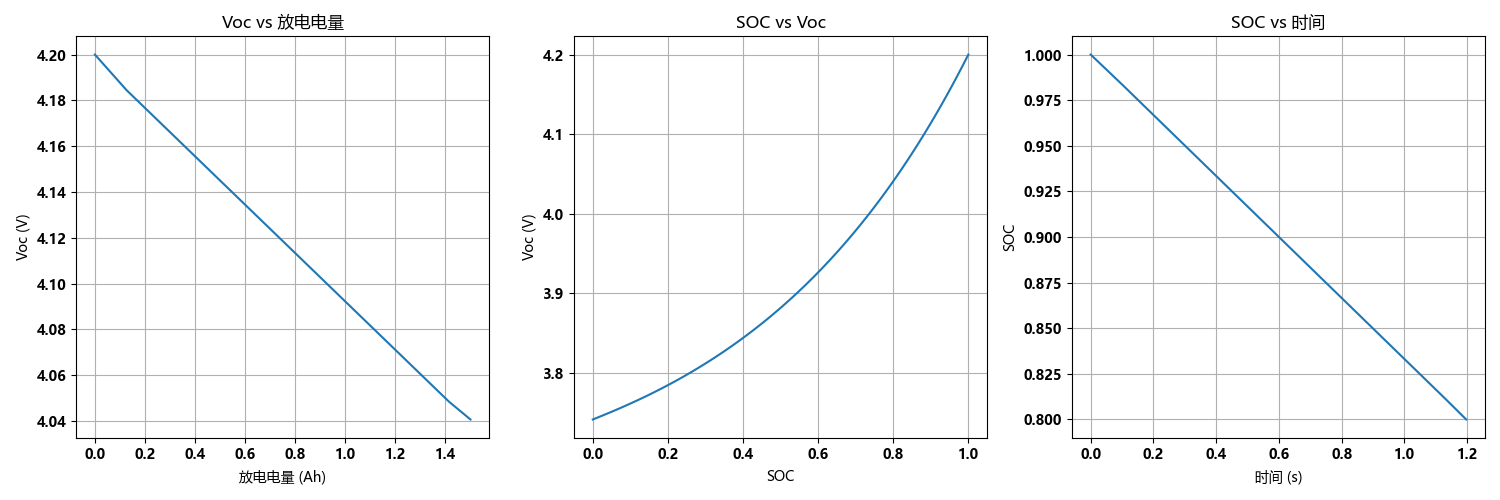
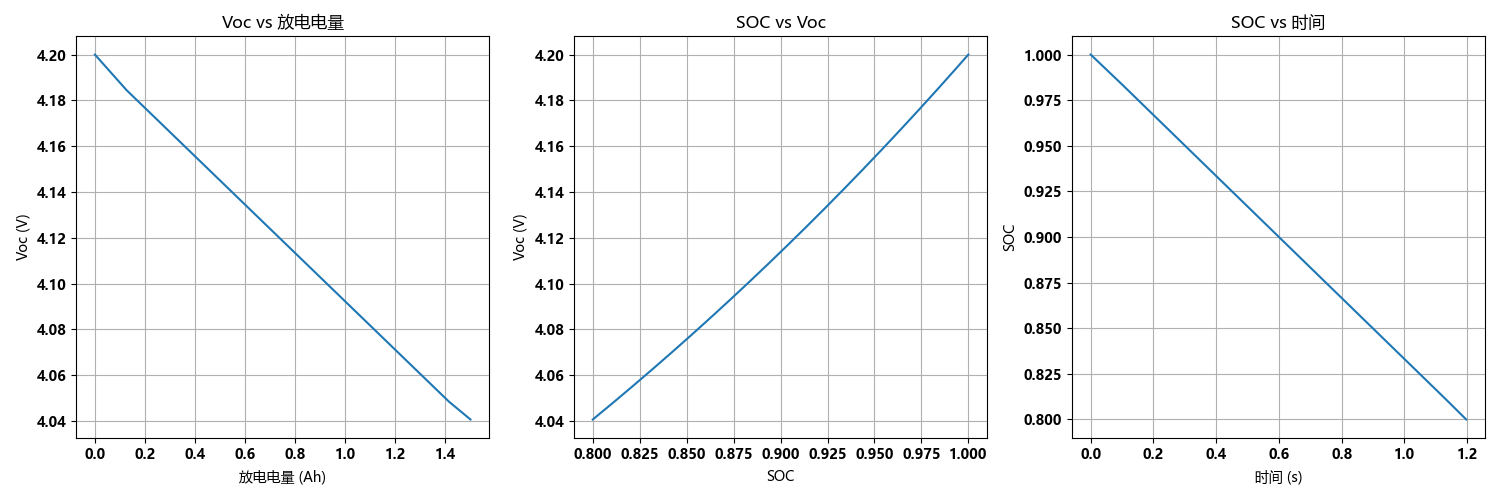
不平滑插值

diff --git a/code_cos.py b/code_cos.py
@@ -1,22 +1,33 @@
 import numpy as np
 from scipy.integrate import solve_ivp
+from scipy.interpolate import interp1d
 import matplotlib.pyplot as plt
 
 # ===============================
-# 参数
+# 从表格中提取的数据
+# ===============================
+soc_table = np.array([0.9, 0.8, 0.7, 0.6, 0.5, 0.4, 0.3, 0.2, 0.1])
+R0_table = np.array([0.0602, 0.0612, 0.0610, 0.0615, 0.0613, 0.0630, 0.0641, 0.0614, 0.0629])
+R1_table = np.array([0.0198, 0.0354, 0.0436, 0.0596, 0.0300, 0.0312, 0.0330, 0.0377, 0.0392])
+C1_table = np.array([1112.36, 921.69, 880.62, 905.44, 1249.34, 1268.09, 1290.36, 1287.61, 1075.17])
+
+# ===============================
+# 创建插值函数（线性插值）
+# ===============================
+R0_interp = interp1d(soc_table, R0_table, kind='linear', bounds_error=False, fill_value='extrapolate')
+R1_interp = interp1d(soc_table, R1_table, kind='linear', bounds_error=False, fill_value='extrapolate')
+C1_interp = interp1d(soc_table, C1_table, kind='linear', bounds_error=False, fill_value='extrapolate')
+
+# ===============================
+# OCV 参数
 # ===============================
 p1 = 0.56777875        # V
 p2 = -1.328625e-11     # V
 lambda1 = -0.21950625  # Ah^-1
 lambda2 = 2.330        # Ah^-1
 
-R0 = 0.1032            # ohm
-R1 = 0.0317            # ohm
-C1 = 649.01            # F
 Qeff = 5.0             # Ah
 Ptotal = 10.0          # W
-
-gamma = R1 * C1        # time constant (s)
 
 # ===============================
 # 初值
@@ -26,10 +37,19 @@ Vrc0 = 0.0    # 极化电压
 x0 = [s0, Vrc0]
 
 # ===============================
-# ODE 定义
+# ODE 定义（使用插值函数）
 # ===============================
 def odefun(t, x):
     s, Vrc = x
+    
+    # 限制SOC范围，避免插值超出边界
+    s_clipped = np.clip(s, 0.05, 1.0)
+    
+    # 从插值函数获取当前SOC对应的参数
+    R0 = float(R0_interp(s_clipped))
+    R1 = float(R1_interp(s_clipped))
+    C1 = float(C1_interp(s_clipped))
+    gamma = R1 * C1  # 时间常数 (s)
 
     # Voc(s)
     q = (1 - s) * Qeff  # Ah
@@ -75,7 +95,8 @@ sol = solve_ivp(
     method='RK45',
     rtol=1e-8,
     atol=1e-10,
-    events=stop_event
+    events=stop_event,
+    dense_output=True
 )
 
 t = sol.t
@@ -83,12 +104,86 @@ s = sol.y[0]
 Vrc = sol.y[1]
 
 # ===============================
-# 绘图：SOC vs time
+# 计算其他物理量用于绘图
 # ===============================
-plt.figure(figsize=(7, 5))
-plt.plot(t / 60, s, linewidth=2)
-plt.grid(True)
-plt.xlabel("Time (min)")
-plt.ylabel("SOC, s")
-plt.title("SOC vs Time under Constant Power Load (P = 10 W)")
+IL_array = []
+Voc_array = []
+Vt_array = []
+R0_array = []
+R1_array = []
+
+for i in range(len(t)):
+    s_val = s[i]
+    Vrc_val = Vrc[i]
+    
+    s_clipped = np.clip(s_val, 0.05, 1.0)
+    R0_val = float(R0_interp(s_clipped))
+    R1_val = float(R1_interp(s_clipped))
+    
+    q = (1 - s_val) * Qeff
+    Voc_val = (
+        p1 * (np.exp(lambda1 * q) - 1)
+        + p2 * (np.exp(lambda2 * q) - 1)
+        + 4.2
+    )
+    
+    Vt_val = Voc_val - Vrc_val
+    disc = Vt_val**2 - 4 * R0_val * Ptotal
+    if disc < 0:
+        disc = 0.0
+    IL_val = (Vt_val - np.sqrt(disc)) / (2 * R0_val)
+    
+    IL_array.append(IL_val)
+    Voc_array.append(Voc_val)
+    Vt_array.append(Vt_val)
+    R0_array.append(R0_val)
+    R1_array.append(R1_val)
+
+IL_array = np.array(IL_array)
+Voc_array = np.array(Voc_array)
+Vt_array = np.array(Vt_array)
+R0_array = np.array(R0_array)
+R1_array = np.array(R1_array)
+
+# ===============================
+# 绘图
+# ===============================
+fig, axes = plt.subplots(2, 2, figsize=(14, 10))
+
+# SOC vs time
+axes[0, 0].plot(t / 60, s, linewidth=2, color='b')
+axes[0, 0].grid(True)
+axes[0, 0].set_xlabel("Time (min)")
+axes[0, 0].set_ylabel("SOC")
+axes[0, 0].set_title("SOC vs Time under Constant Power Load (P = 10 W)")
+
+# 电流 vs time
+axes[0, 1].plot(t / 60, IL_array, linewidth=2, color='r')
+axes[0, 1].grid(True)
+axes[0, 1].set_xlabel("Time (min)")
+axes[0, 1].set_ylabel("Current (A)")
+axes[0, 1].set_title("Discharge Current vs Time")
+
+# 电压 vs time
+axes[1, 0].plot(t / 60, Voc_array, linewidth=2, label='Voc', color='g')
+axes[1, 0].plot(t / 60, Vt_array, linewidth=2, label='Vt (Terminal)', color='orange')
+axes[1, 0].grid(True)
+axes[1, 0].set_xlabel("Time (min)")
+axes[1, 0].set_ylabel("Voltage (V)")
+axes[1, 0].set_title("Voltages vs Time")
+axes[1, 0].legend()
+
+# R0, R1 vs SOC
+axes[1, 1].plot(s, R0_array, linewidth=2, label='R0', color='purple')
+axes[1, 1].plot(s, R1_array, linewidth=2, label='R1', color='brown')
+axes[1, 1].grid(True)
+axes[1, 1].set_xlabel("SOC")
+axes[1, 1].set_ylabel("Resistance (Ω)")
+axes[1, 1].set_title("R0 and R1 vs SOC (from interpolation)")
+axes[1, 1].legend()
+
+plt.tight_layout()
 plt.show()
+
+print(f"放电时间: {t[-1]/60:.2f} 分钟")
+print(f"最终SOC: {s[-1]:.4f}")
